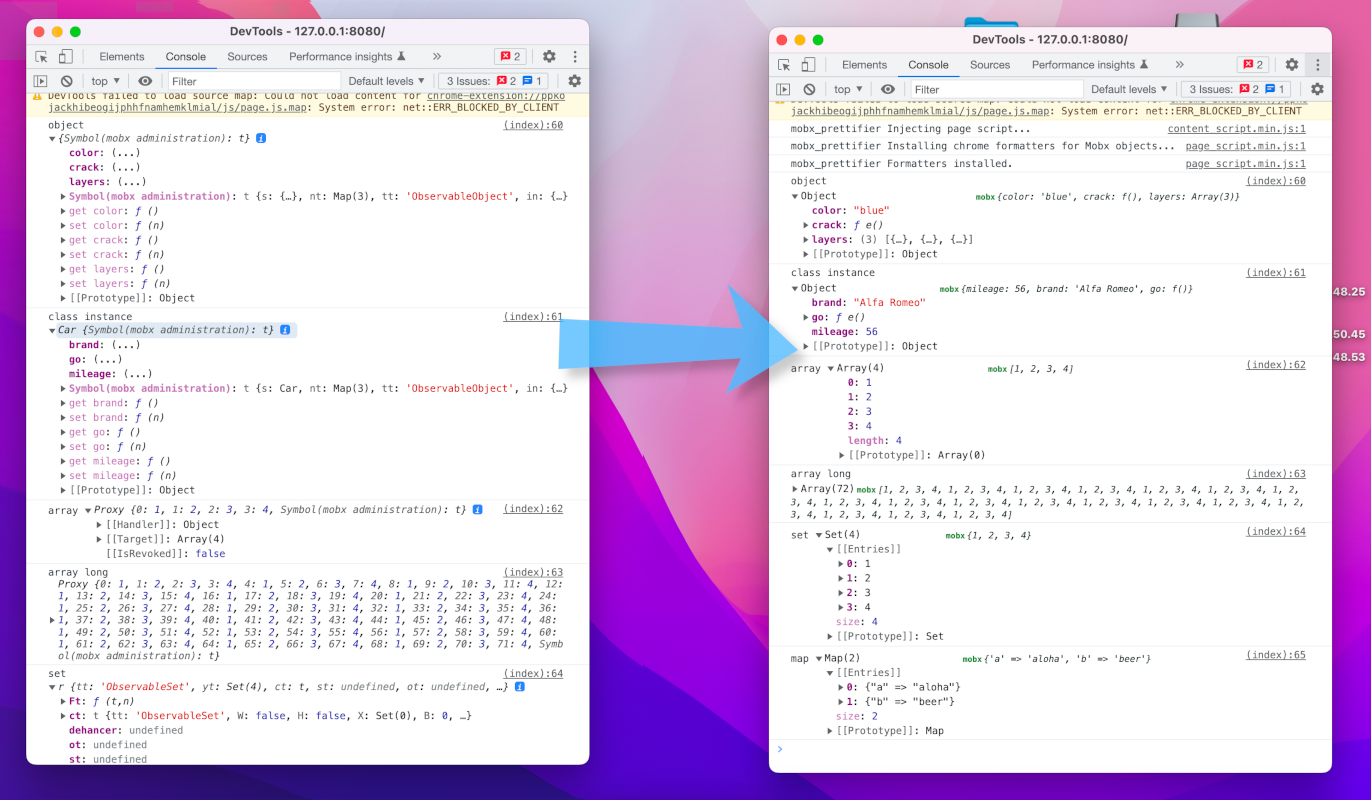
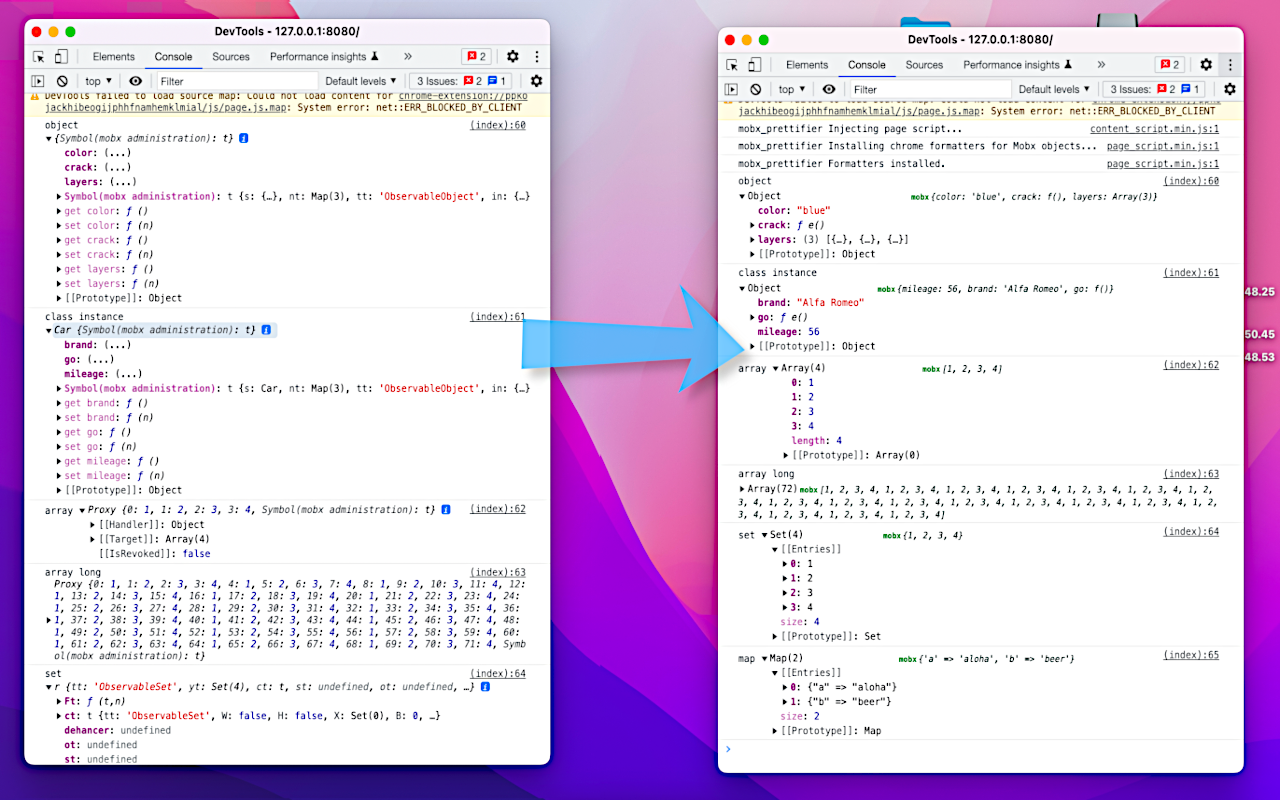
chore: Fixed screenshot size

diff --git a/assets_store/readme.md b/assets_store/readme.md
@@ -5,3 +5,6 @@ Assets for publishing manually to Google web store
 About asset sizes:
 
 https://chrome.google.com/u/1/webstore/devconsole/2a0f76ad-cc4a-4a7d-8493-d0ccc8ad6a1b/okpnppgjobiijpfknhoacmpmjkoobhid/edit
+
+screenshot: 1,280 x 800
+icons: 128x, 48x, 32x, 16x
